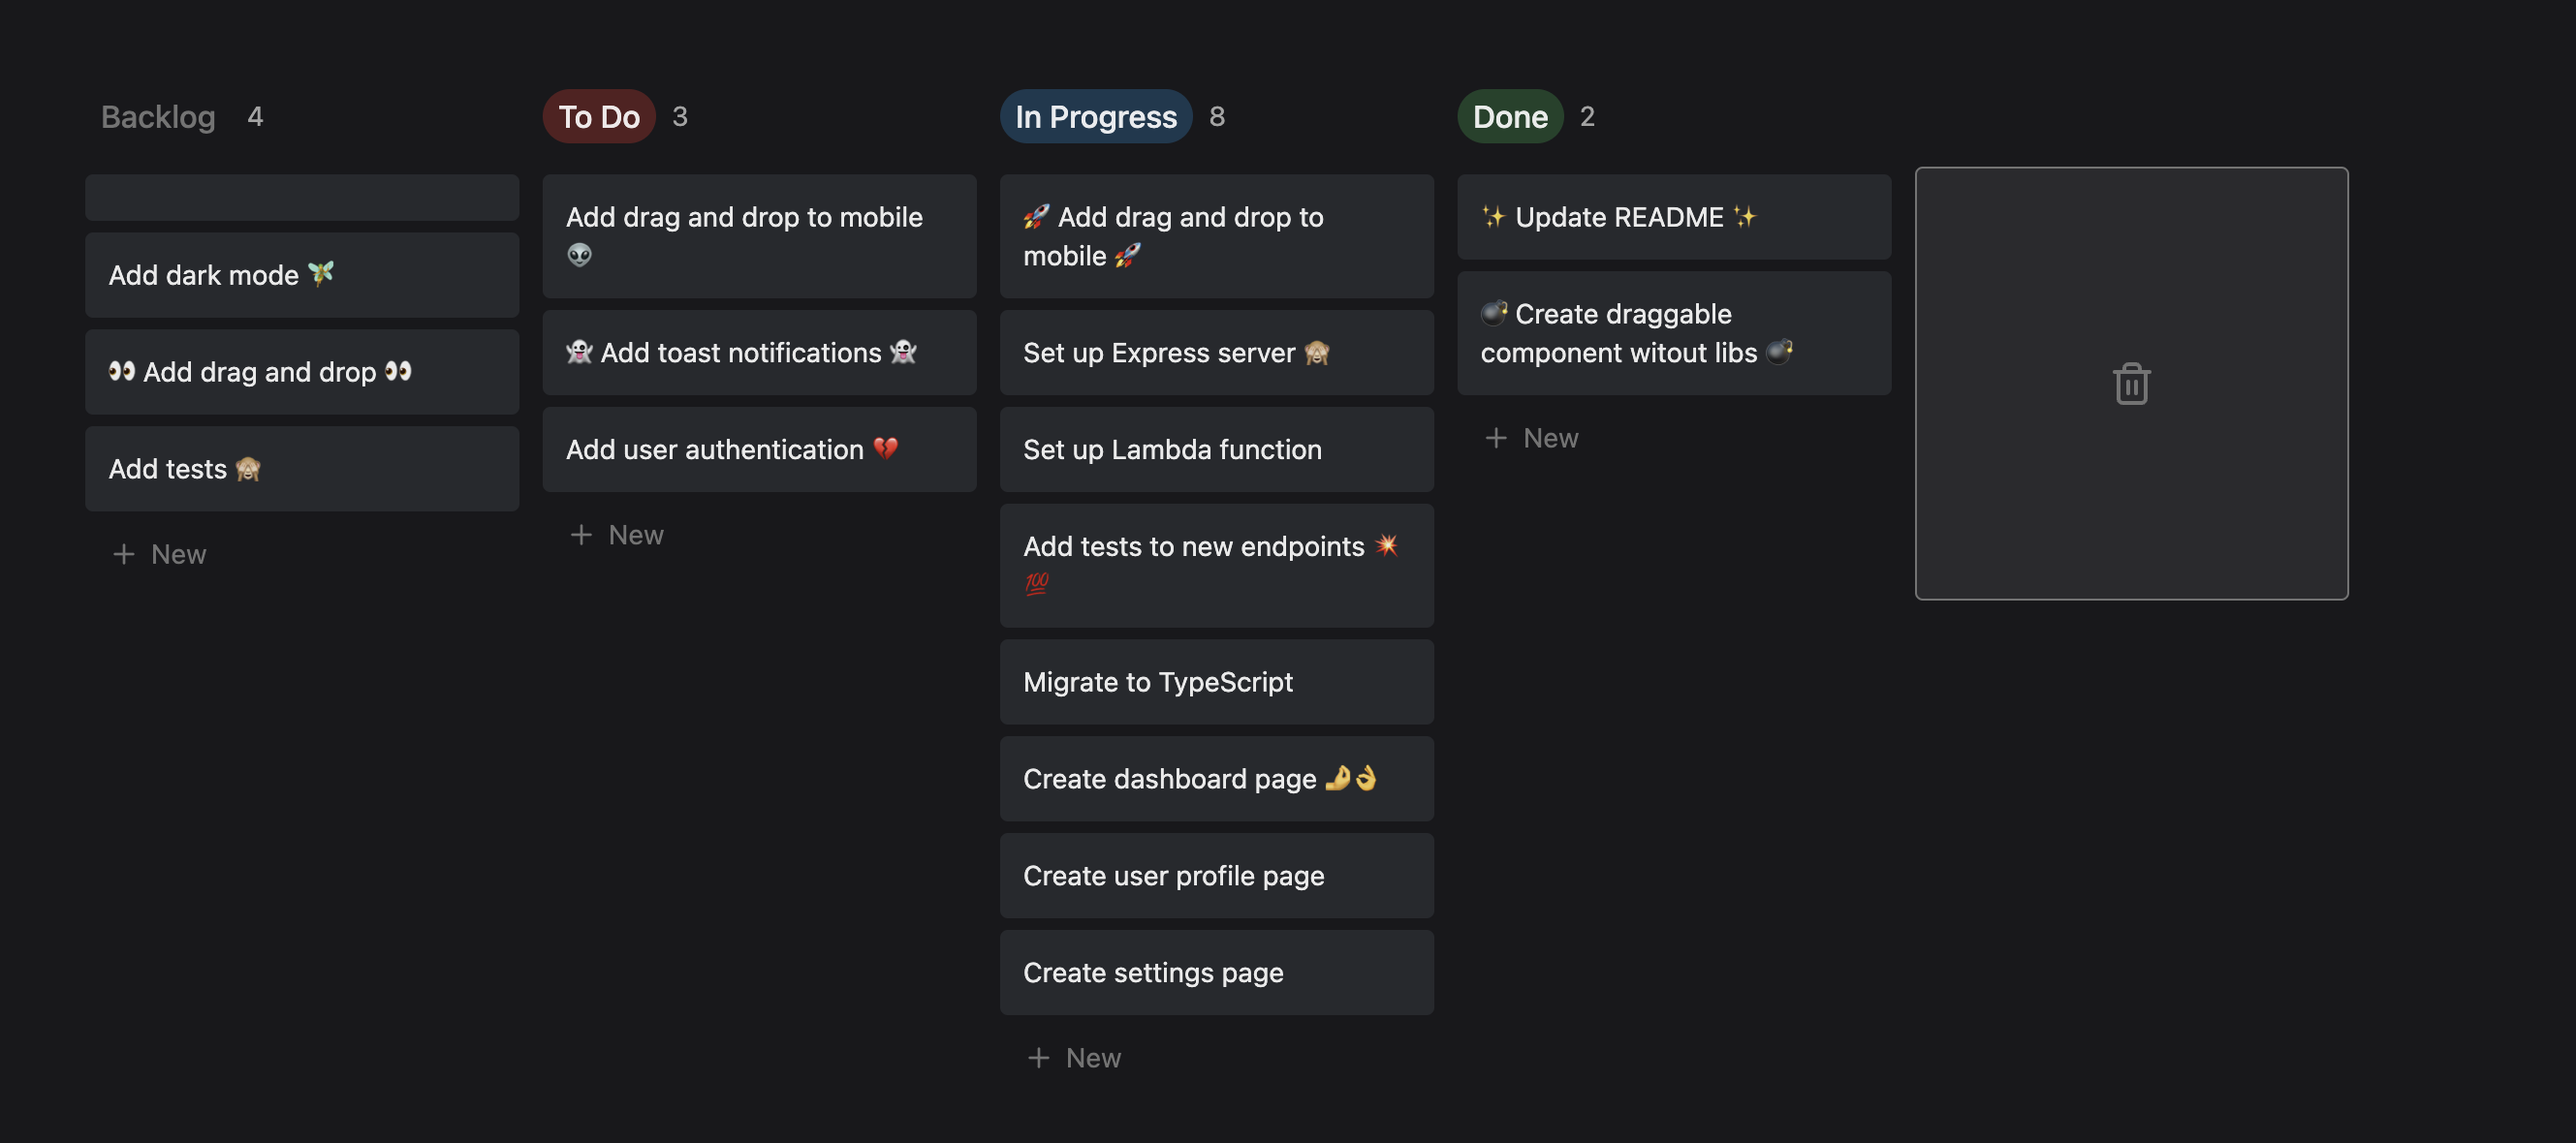
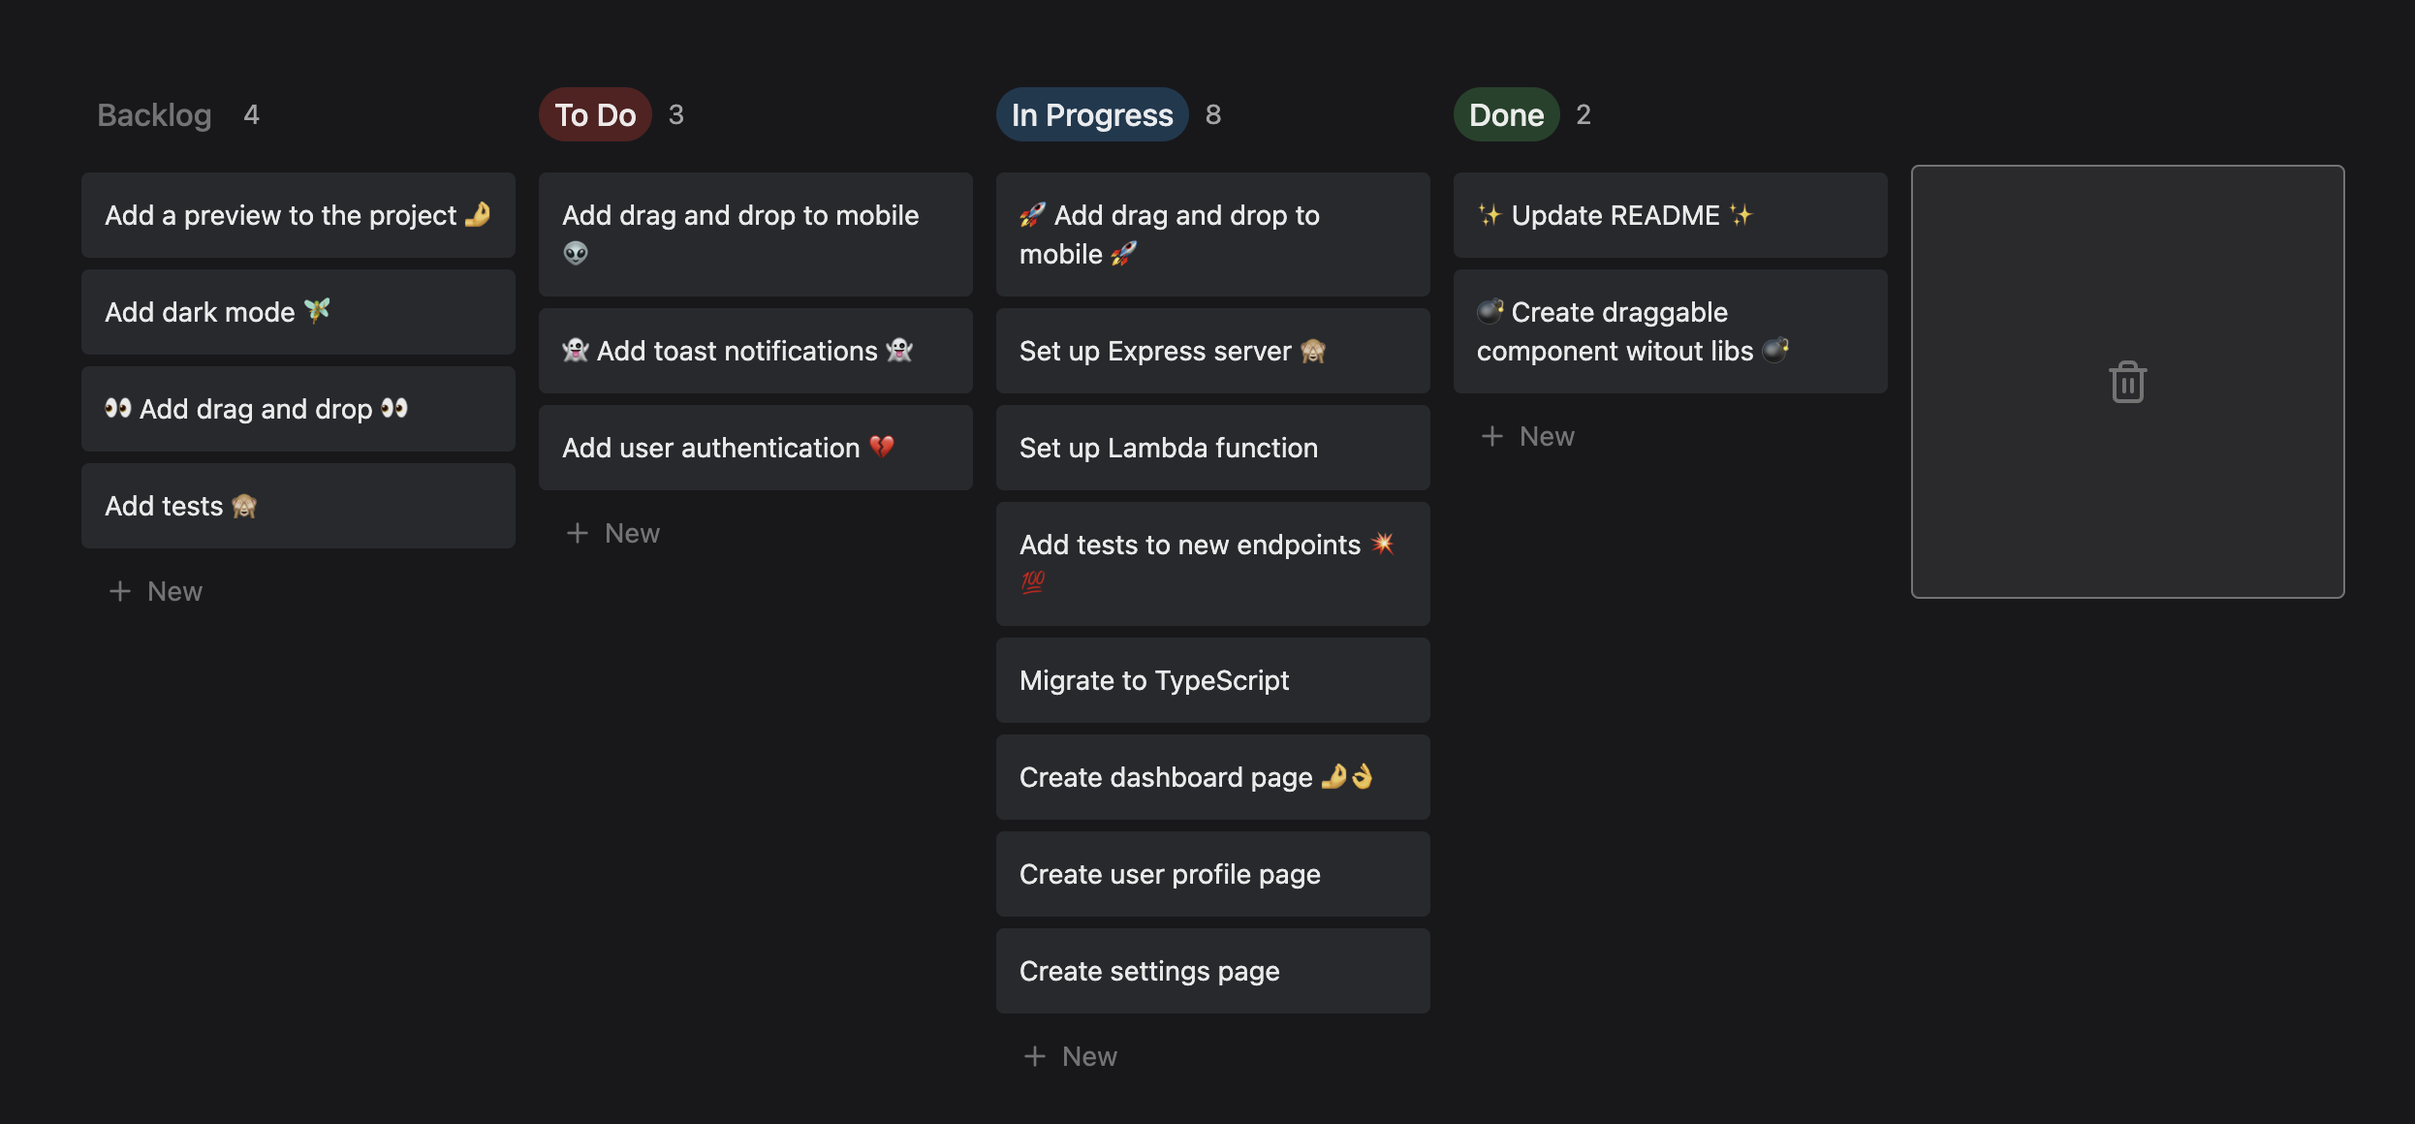
fix preview

diff --git a/src/utils/data.ts b/src/utils/data.ts
@@ -2,7 +2,7 @@ import { Card, Column } from "./types";
 
 export const DEFAULT_CARDS: Card[] = [
   // BACKLOG
-  { title: "", id: "1", column: "backlog" },
+  { title: "Add a preview to the project 🤌", id: "1", column: "backlog" },
   { title: "Add dark mode 🧚", id: "2", column: "backlog" },
   { title: "👀 Add drag and drop 👀", id: "3", column: "backlog" },
   { title: "Add tests 🙈", id: "4", column: "backlog" },
